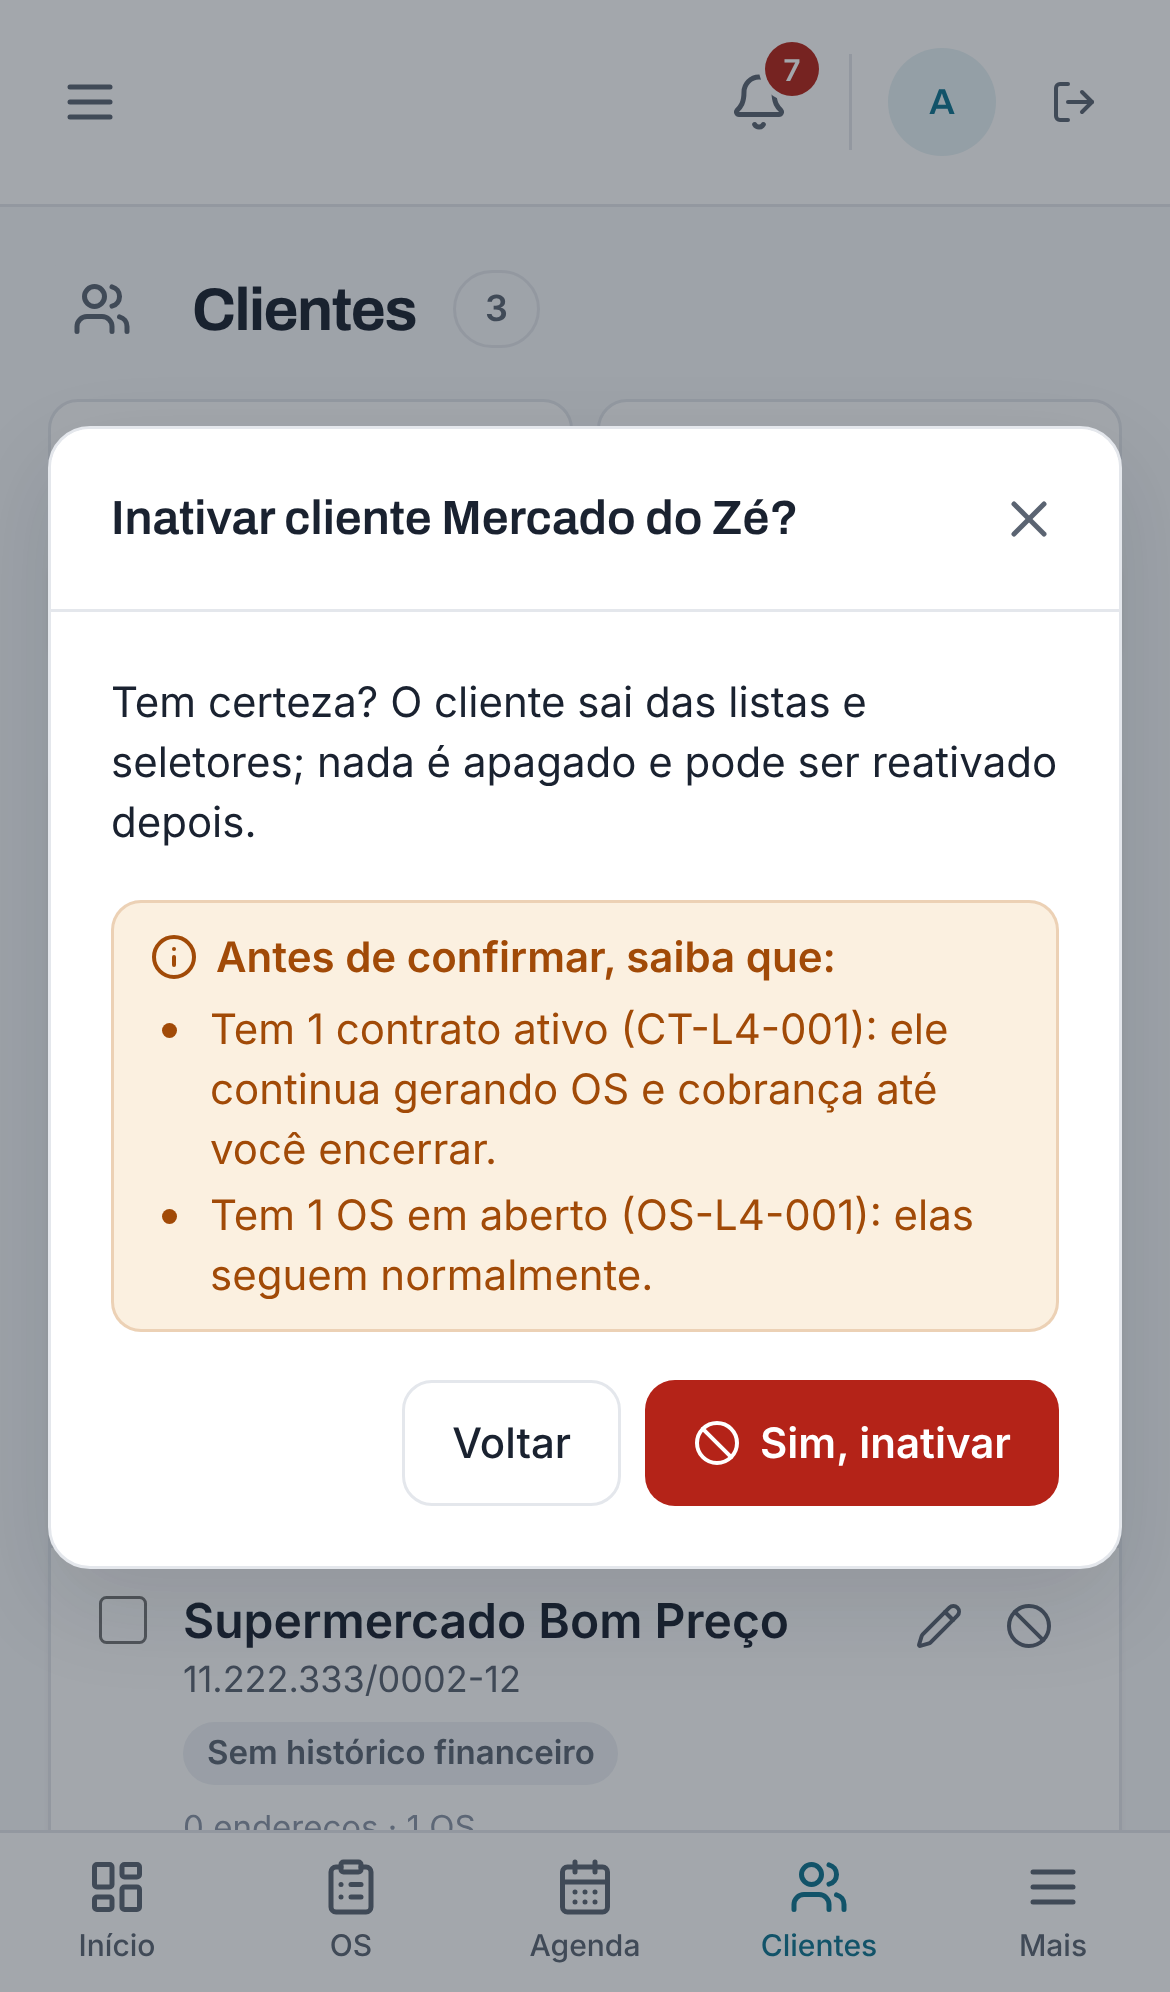
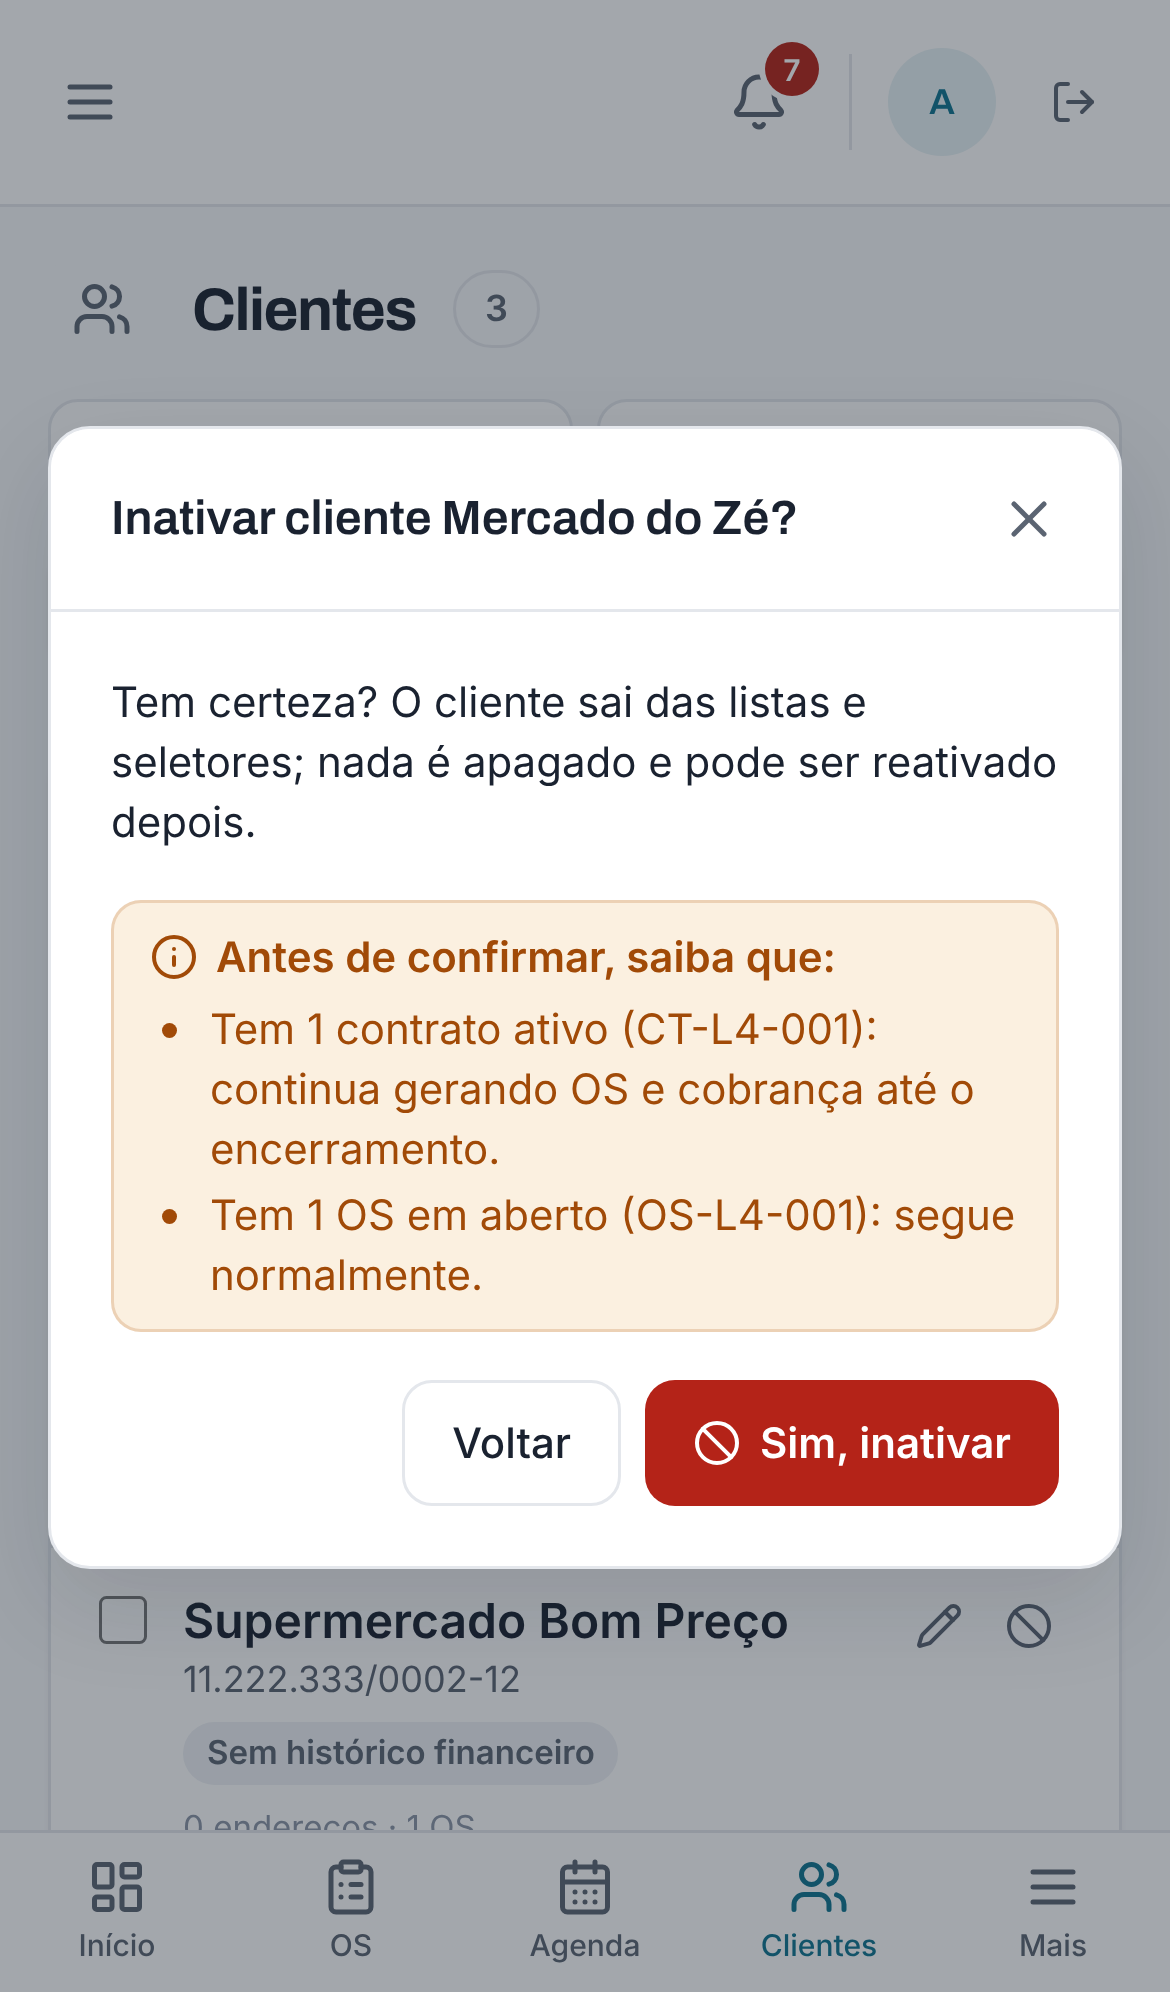
Avisos de inativar sem "você" e curtos (régua do manifesto); prints com o texto final
Claude-Session: https://claude.ai/code/session_01HN9DuuzHE4vA6hCqUqD6QW

diff --git a/tests/unit/cadastros-pontas-regras.test.ts b/tests/unit/cadastros-pontas-regras.test.ts
@@ -55,7 +55,7 @@ describe("conta a pagar: paga não cancela nem edita", () => {
 
 describe("modelo de checklist do checklist diário", () => {
   it("ligado e é este modelo: não inativa; desligado, outro modelo ou sem configuração: inativa", () => {
-    expect(motivoNaoInativarModeloChecklist("m1", { checklistDiarioAtivo: true, checklistDiarioTemplateId: "m1" })).toMatch(/^Este é o modelo do checklist diário obrigatório/);
+    expect(motivoNaoInativarModeloChecklist("m1", { checklistDiarioAtivo: true, checklistDiarioTemplateId: "m1" })).toMatch(/^Modelo do checklist diário obrigatório/);
     expect(motivoNaoInativarModeloChecklist("m1", { checklistDiarioAtivo: false, checklistDiarioTemplateId: "m1" })).toBeNull();
     expect(motivoNaoInativarModeloChecklist("m2", { checklistDiarioAtivo: true, checklistDiarioTemplateId: "m1" })).toBeNull();
     expect(motivoNaoInativarModeloChecklist("m1", null)).toBeNull();
@@ -102,14 +102,15 @@ describe("inativar cliente: o que continua andando", () => {
   it("nada em andamento: nenhum aviso", () => expect(avisosInativarCliente(vazio)).toEqual([]));
   it("um de cada (singular) e vários (plural, até 3 nomes)", () => {
     expect(avisosInativarCliente({ contratosAtivos: ["CT-1"], osAbertas: ["OS-1"], orcamentosAbertos: 1, contasAbertas: 1, pmocsAtivos: 1 })).toEqual([
-      "Tem 1 contrato ativo (CT-1): ele continua gerando OS e cobrança até você encerrar.",
-      "Tem 1 OS em aberto (OS-1): elas seguem normalmente.",
+      "Tem 1 contrato ativo (CT-1): continua gerando OS e cobrança até o encerramento.",
+      "Tem 1 OS em aberto (OS-1): segue normalmente.",
       "Tem 1 orçamento em aberto.",
       "Tem 1 conta a receber em aberto: a cobrança continua.",
       "Tem 1 PMOC ativo.",
     ]);
-    expect(avisosInativarCliente({ ...vazio, contratosAtivos: ["A", "B", "C", "D"], orcamentosAbertos: 2, contasAbertas: 3, pmocsAtivos: 2 })).toEqual([
-      "Tem 4 contratos ativos (A, B, C e mais 1): eles continuam gerando OS e cobrança até você encerrar.",
+    expect(avisosInativarCliente({ ...vazio, contratosAtivos: ["A", "B", "C", "D"], osAbertas: ["OS-1", "OS-2"], orcamentosAbertos: 2, contasAbertas: 3, pmocsAtivos: 2 })).toEqual([
+      "Tem 4 contratos ativos (A, B, C e mais 1): continuam gerando OS e cobrança até o encerramento.",
+      "Tem 2 OS em aberto (OS-1, OS-2): seguem normalmente.",
       "Tem 2 orçamentos em aberto.",
       "Tem 3 contas a receber em aberto: a cobrança continua.",
       "Tem 2 PMOCs ativos.",

diff --git a/lib/cadastros/regras-arquivar.ts b/lib/cadastros/regras-arquivar.ts
@@ -62,7 +62,7 @@ export interface ConfigChecklistDiario { checklistDiarioAtivo: boolean; checklis
  */
 export function motivoNaoInativarModeloChecklist(modeloId: string, cfg: ConfigChecklistDiario | null): string | null {
   if (cfg?.checklistDiarioAtivo && cfg.checklistDiarioTemplateId === modeloId) {
-    return "Este é o modelo do checklist diário obrigatório: inativado, o app deixaria de cobrar o checklist. Escolha outro modelo no checklist diário antes.";
+    return "Modelo do checklist diário obrigatório: troque o modelo do checklist diário antes de inativar.";
   }
   return null;
 }
@@ -132,8 +132,16 @@ const ate3 = (xs: string[]) => xs.slice(0, 3).join(", ") + (xs.length > 3 ? ` e 
  */
 export function avisosInativarCliente(u: UsoCliente): string[] {
   const a: string[] = [];
-  if (u.contratosAtivos.length) a.push(`Tem ${pl(u.contratosAtivos.length, "contrato ativo", "contratos ativos")} (${ate3(u.contratosAtivos)}): ele${u.contratosAtivos.length === 1 ? " continua" : "s continuam"} gerando OS e cobrança até você encerrar.`);
-  if (u.osAbertas.length) a.push(`Tem ${pl(u.osAbertas.length, "OS em aberto", "OS em aberto")} (${ate3(u.osAbertas)}): elas seguem normalmente.`);
+  const ct = u.contratosAtivos, os = u.osAbertas;
+  if (ct.length) {
+    const qtd = pl(ct.length, "contrato ativo", "contratos ativos");
+    const segue = ct.length === 1 ? "continua" : "continuam";
+    a.push(`Tem ${qtd} (${ate3(ct)}): ${segue} gerando OS e cobrança até o encerramento.`);
+  }
+  if (os.length) {
+    const segue = os.length === 1 ? "segue" : "seguem";
+    a.push(`Tem ${pl(os.length, "OS em aberto", "OS em aberto")} (${ate3(os)}): ${segue} normalmente.`);
+  }
   if (u.orcamentosAbertos) a.push(`Tem ${pl(u.orcamentosAbertos, "orçamento em aberto", "orçamentos em aberto")}.`);
   if (u.contasAbertas) a.push(`Tem ${pl(u.contasAbertas, "conta a receber em aberto", "contas a receber em aberto")}: a cobrança continua.`);
   if (u.pmocsAtivos) a.push(`Tem ${pl(u.pmocsAtivos, "PMOC ativo", "PMOCs ativos")}.`);

diff --git a/tests/unit/cadastros-pontas-pg.test.ts b/tests/unit/cadastros-pontas-pg.test.ts
@@ -169,8 +169,8 @@ describe.skipIf(!URL_PG)("pontas soltas de cadastro (PostgreSQL real)", () => {
     expect(r.status).toBe(200);
     expect(r.json.bloqueio).toBeNull();
     expect(r.json.avisos).toEqual([
-      "Tem 1 contrato ativo (CT-L4-001): ele continua gerando OS e cobrança até você encerrar.",
-      "Tem 1 OS em aberto (OS-L4-1): elas seguem normalmente.",
+      "Tem 1 contrato ativo (CT-L4-001): continua gerando OS e cobrança até o encerramento.",
+      "Tem 1 OS em aberto (OS-L4-1): segue normalmente.",
       "Tem 1 orçamento em aberto.",
       "Tem 1 conta a receber em aberto: a cobrança continua.",
     ]);
@@ -189,7 +189,7 @@ describe.skipIf(!URL_PG)("pontas soltas de cadastro (PostgreSQL real)", () => {
     await prisma.configuracao.create({ data: { empresaId: "e1", checklistDiarioAtivo: true, checklistDiarioTemplateId: "mDiario" } });
     como();
     const r = await rota("api/checklist-templates/[id]", "DELETE", undefined, { id: "mDiario" });
-    expect(r).toEqual({ status: 409, json: { erro: "Este é o modelo do checklist diário obrigatório: inativado, o app deixaria de cobrar o checklist. Escolha outro modelo no checklist diário antes." } });
+    expect(r).toEqual({ status: 409, json: { erro: "Modelo do checklist diário obrigatório: troque o modelo do checklist diário antes de inativar." } });
     expect((await prisma.checklistTemplate.findUnique({ where: { id: "mDiario" } })).ativo).toBe(true);
     expect((await rota("api/checklist-templates/[id]", "DELETE", undefined, { id: "mOutro" })).status).toBe(200);
     // checklist diário desligado: o modelo sai normalmente

diff --git a/tests/unit/cadastros-pontas-ui.test.ts b/tests/unit/cadastros-pontas-ui.test.ts
@@ -82,7 +82,7 @@ describe("ficha do cliente: inativar e reativar pelo botão padrão", () => {
 
   for (const consulta of [true, false]) {
     it(`${consulta ? "consulta" : "edição"}: Inativar com o texto padrão e o que continua andando; confirmado, o selo vira Inativo`, async () => {
-      respostas["GET /api/clientes/cl1/impacto"] = { status: 200, corpo: { bloqueio: null, avisos: ["Tem 1 contrato ativo (CT-L4-001): ele continua gerando OS e cobrança até você encerrar."] } };
+      respostas["GET /api/clientes/cl1/impacto"] = { status: 200, corpo: { bloqueio: null, avisos: ["Tem 1 contrato ativo (CT-L4-001): continua gerando OS e cobrança até o encerramento."] } };
       await ficha(consulta, permissoesTotais());
       expect(status()).toBe("Ativo");
       // o antigo seletor de status (com o texto próprio) saiu

diff --git a/tests/unit/padronizacao-leva4a-ui.test.ts b/tests/unit/padronizacao-leva4a-ui.test.ts
@@ -381,7 +381,7 @@ describe("Clientes: ações da linha", () => {
   });
 
   it("inativar: o texto padrão e o que continua andando; confirma, grava, avisa e atualiza a lista", async () => {
-    respostas["GET /api/clientes/c1/impacto"] = { status: 200, corpo: { bloqueio: null, avisos: ["Tem 1 contrato ativo (CT-1): ele continua gerando OS e cobrança até você encerrar."] } };
+    respostas["GET /api/clientes/c1/impacto"] = { status: 200, corpo: { bloqueio: null, avisos: ["Tem 1 contrato ativo (CT-1): continua gerando OS e cobrança até o encerramento."] } };
     await abrir(P(["visualizar", "editar", "excluir"]));
     await clicar(inativarBtn());
     expect(txt(dialogo())).toContain("Inativar cliente Padaria Pão Quente?");
